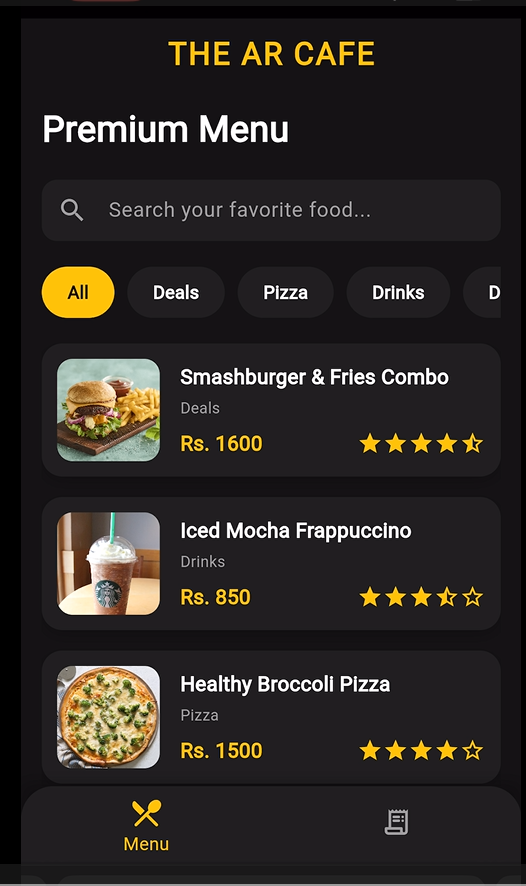
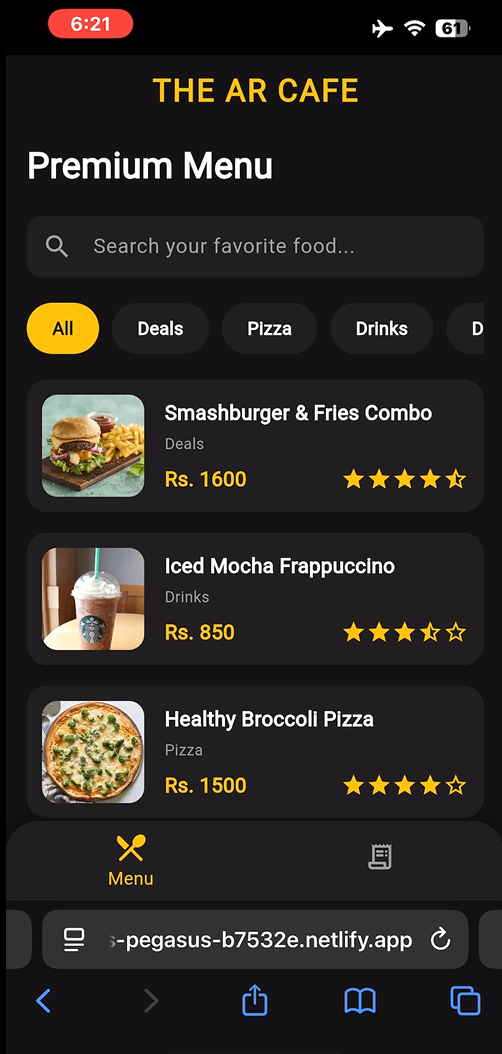
changed ratio of projects to mobile screen

diff --git a/index.html b/index.html
@@ -192,11 +192,9 @@
       <div class="projects-grid">
         <div class="project-card premium-project">
           <div class="project-thumb">
-            <img
-              src="images/E-commerce.png"
-              alt="Catalog App"
-              style="width: 100%; height: 100%; object-fit: cover"
-            />
+            <div class="project-device">
+              <img src="images/E-commerce.png" alt="Catalog App" />
+            </div>
           </div>
           <div class="project-info">
             <h3>Catalog App</h3>
@@ -232,11 +230,9 @@
 
         <div class="project-card premium-project">
           <div class="project-thumb">
-            <img
-              src="images/groomin .jpg"
-              alt="Groomin App"
-              style="width: 100%; height: 100%; object-fit: cover"
-            />
+            <div class="project-device">
+              <img src="images/groomin .jpg" alt="Groomin App" />
+            </div>
           </div>
           <div class="project-info">
             <h3>Groomin — Booking System</h3>
@@ -270,16 +266,9 @@
 
         <div class="project-card premium-project">
           <div class="project-thumb">
-            <img
-              src="images/pushaway_game.png"
-              alt="Push Away Game"
-              style="
-                width: 100%;
-                height: 100%;
-                object-fit: cover;
-                object-position: top;
-              "
-            />
+            <div class="project-device">
+              <img src="images/pushaway_game.png" alt="Push Away Game" />
+            </div>
           </div>
           <div class="project-info">
             <h3>Push Away Game</h3>
@@ -313,11 +302,9 @@
 
         <div class="project-card premium-project">
           <div class="project-thumb">
-            <img
-              src="images/Aim.jpeg"
-              alt="Authentic News App (AiM)"
-              style="width: 100%; height: 100%; object-fit: cover"
-            />
+            <div class="project-device">
+              <img src="images/Aim.jpeg" alt="Authentic News App (AiM)" />
+            </div>
           </div>
           <div class="project-info">
             <h3>Authentic News App (AiM)</h3>
@@ -353,11 +340,9 @@
 
         <div class="project-card premium-project">
           <div class="project-thumb">
-            <img
-              src="images/dinelens.png"
-              alt="DineLens AR Based SaaS"
-              style="object-fit: cover; width: 100%; height: 100%"
-            />
+            <div class="project-device">
+              <img src="images/dinelens.png" alt="DineLens AR Based SaaS" />
+            </div>
           </div>
           <div class="project-info">
             <h3>DineLens AR Based SaaS</h3>

diff --git a/style.css b/style.css
@@ -610,19 +610,75 @@ body.dark .skills-list li i {
 }
 
 .project-thumb {
-  height: 200px;
-  overflow: hidden;
-  position: relative;
+  padding: 1.2rem 1rem 1.4rem;
+  display: flex;
+  justify-content: center;
+  align-items: center;
+  background: linear-gradient(
+    135deg,
+    rgba(255, 255, 255, 0.85),
+    rgba(226, 232, 240, 0.7)
+  );
 }
-.project-thumb img,
-.project-thumb video {
+
+.project-device {
+  width: min(100%, 220px);
+  aspect-ratio: 9 / 18.5;
+  background: linear-gradient(145deg, #111827, #1f2937);
+  border-radius: 2rem;
+  padding: 0.6rem;
+  box-shadow:
+    0 18px 45px rgba(15, 23, 42, 0.22),
+    inset 0 1px 0 rgba(255, 255, 255, 0.15);
+  position: relative;
+  border: 1px solid rgba(255, 255, 255, 0.18);
+  transition:
+    transform 0.4s ease,
+    box-shadow 0.4s ease;
+}
+
+.project-device::before {
+  content: "";
+  position: absolute;
+  top: 0.35rem;
+  left: 50%;
+  transform: translateX(-50%);
+  width: 34%;
+  height: 0.65rem;
+  background: #0f172a;
+  border-radius: 0 0 1rem 1rem;
+}
+
+.project-device::after {
+  content: "";
+  position: absolute;
+  bottom: 0.55rem;
+  left: 50%;
+  transform: translateX(-50%);
+  width: 2rem;
+  height: 2rem;
+  border: 2px solid rgba(255, 255, 255, 0.15);
+  border-radius: 50%;
+}
+
+.project-device img {
   width: 100%;
   height: 100%;
   object-fit: cover;
-  transition: transform 0.5s;
+  object-position: top;
+  border-radius: 1.4rem;
+  display: block;
+  border: 1px solid rgba(255, 255, 255, 0.14);
+  transition: transform 0.5s ease;
 }
-.premium-project:hover .project-thumb img {
-  transform: scale(1.1); /* Zoom effect */
+
+.premium-project:hover .project-device {
+  transform: translateY(-6px) scale(1.02);
+  box-shadow: 0 24px 50px rgba(0, 120, 212, 0.22);
+}
+
+.premium-project:hover .project-device img {
+  transform: scale(1.05);
 }
 
 .project-info {
